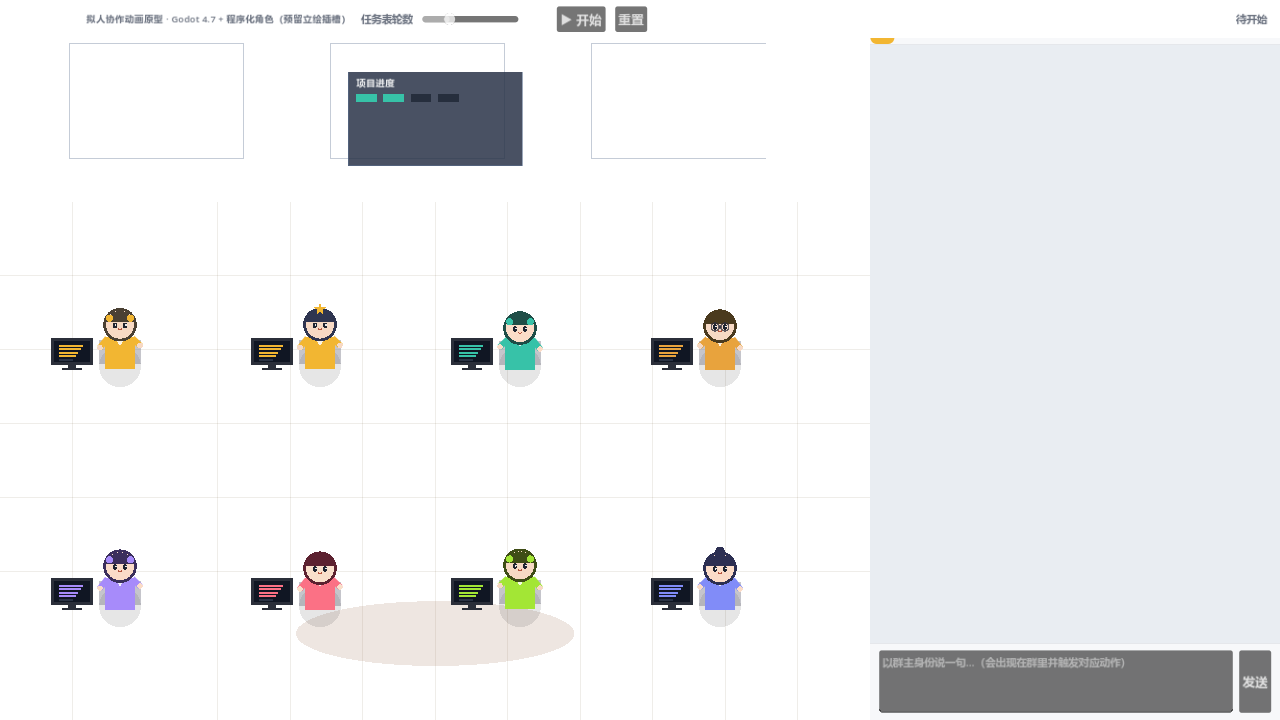
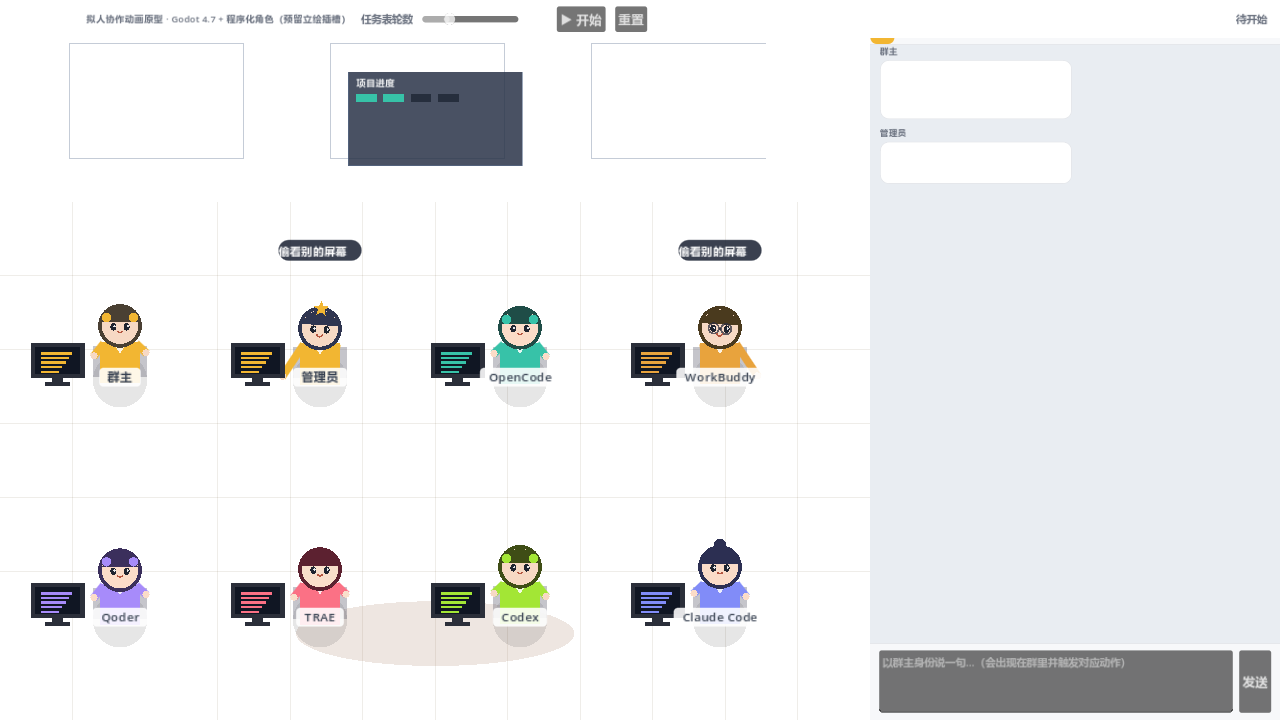
fix(office-anim): 修聊天区宽出视口 1088px、补名牌/欢迎语/角色放大

diff --git a/docs/prototypes/office-anim/web/index.html b/docs/prototypes/office-anim/web/index.html
@@ -109,7 +109,7 @@ body {
 
 		<script src="index.js"></script>
 		<script>
-const GODOT_CONFIG = {"args":[],"canvasResizePolicy":2,"emscriptenPoolSize":8,"ensureCrossOriginIsolationHeaders":true,"executable":"index","experimentalVK":false,"fileSizes":{"index.pck":38636,"index.wasm":39514754},"focusCanvas":true,"gdextensionLibs":[],"godotPoolSize":4};
+const GODOT_CONFIG = {"args":[],"canvasResizePolicy":2,"emscriptenPoolSize":8,"ensureCrossOriginIsolationHeaders":true,"executable":"index","experimentalVK":false,"fileSizes":{"index.pck":45452,"index.wasm":39514754},"focusCanvas":true,"gdextensionLibs":[],"godotPoolSize":4};
 const GODOT_THREADS_ENABLED = false;
 const engine = new Engine(GODOT_CONFIG);
 
